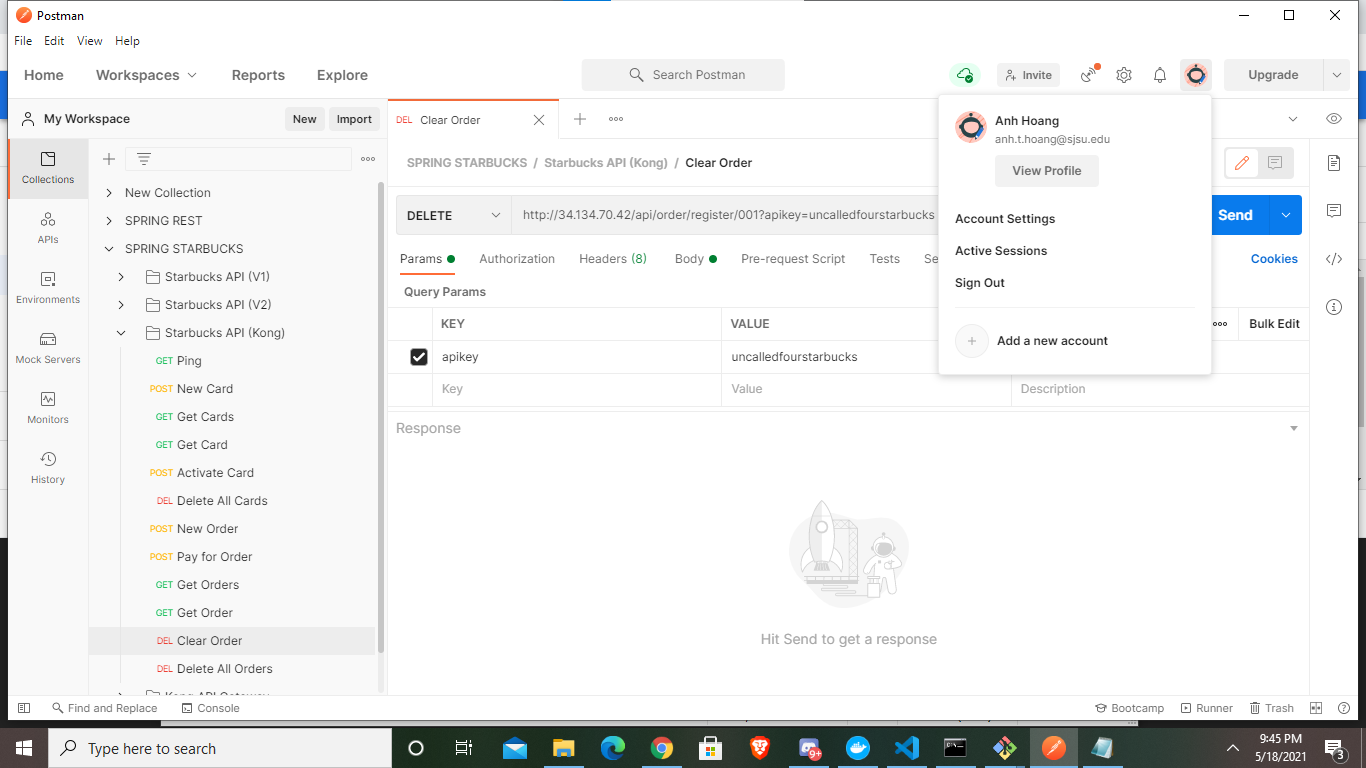
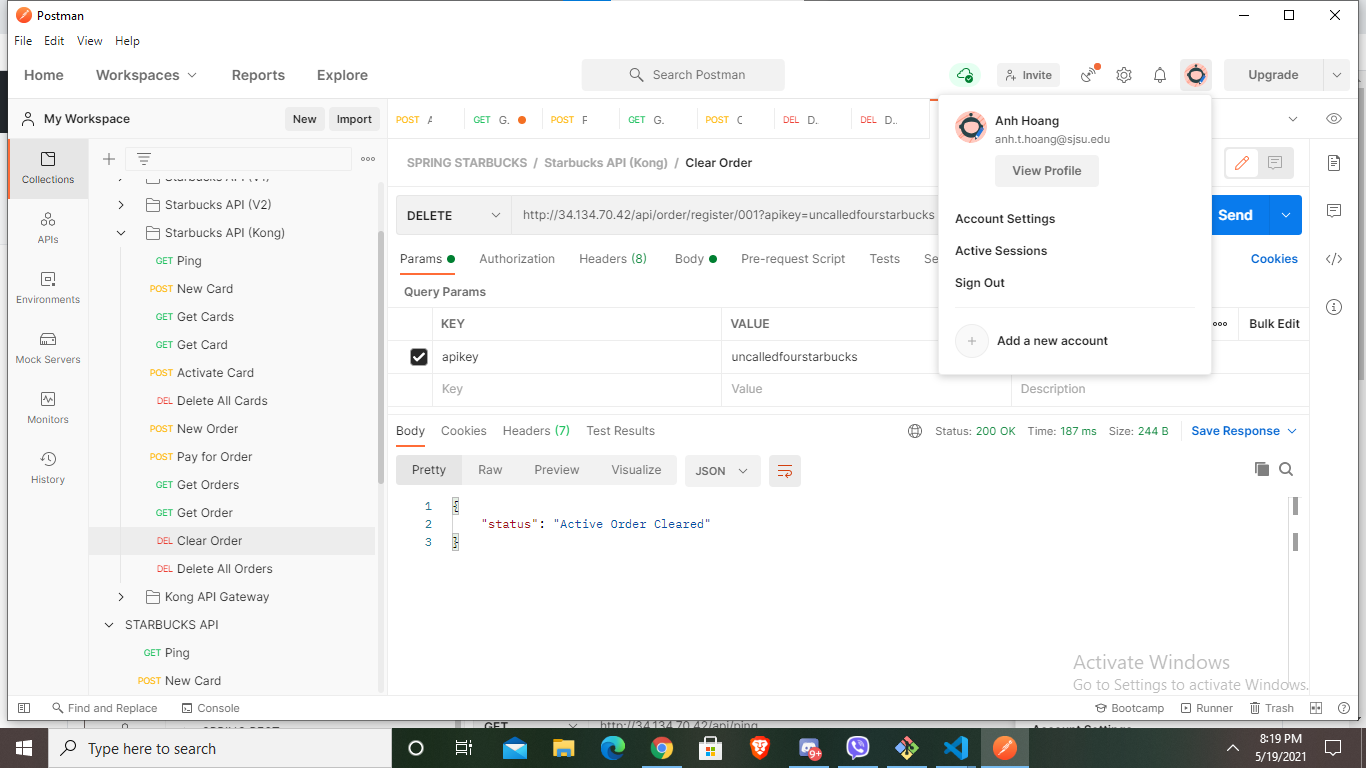
Update journal- Kong API

diff --git a/journal/project_journal.md b/journal/project_journal.md
@@ -136,7 +136,32 @@ For now, we decided to use static HTML values for the menu. Currently, we are wo
 ![alt text](https://github.com/nguyensjsu/sp21-172-the-uncalled-four/blob/main/screenshots/starbucks2.png?raw=true)<br />
 
 ***REST API***
- * Final design with sample request/response
+ * We have successfully deploy KONG API GATEWAY for starbucks-api. Below are some sample of request/response <br />
+
+    ***Ping***
+    ![alt text](https://github.com/nguyensjsu/sp21-172-the-uncalled-four/blob/main/kongscreenshots/ping.png?raw=true)<br />
+    ***New Card***
+    ![alt text](https://github.com/nguyensjsu/sp21-172-the-uncalled-four/blob/main/kongscreenshots/newcard.png?raw=true)<br />
+    ***Get Cards***
+    ![alt text](https://github.com/nguyensjsu/sp21-172-the-uncalled-four/blob/main/kongscreenshots/getcards.png?raw=true)<br />
+    ***Get Card***
+    ![alt text](https://github.com/nguyensjsu/sp21-172-the-uncalled-four/blob/main/kongscreenshots/getcard.png?raw=true)<br />
+    ***Activate Card***
+    ![alt text](https://github.com/nguyensjsu/sp21-172-the-uncalled-four/blob/main/kongscreenshots/activatecard.png?raw=true)<br />
+    ***New Order***
+    ![alt text](https://github.com/nguyensjsu/sp21-172-the-uncalled-four/blob/main/kongscreenshots/neworder.png?raw=true)<br />
+    ***Get Orders***
+    ![alt text](https://github.com/nguyensjsu/sp21-172-the-uncalled-four/blob/main/kongscreenshots/getorders.png?raw=true)<br />
+    ***Get Order***
+    ![alt text](https://github.com/nguyensjsu/sp21-172-the-uncalled-four/blob/main/kongscreenshots/getorder.png?raw=true)<br />
+    ***Pay Order***
+    ![alt text](https://github.com/nguyensjsu/sp21-172-the-uncalled-four/blob/main/kongscreenshots/payorder.png?raw=true)<br />
+    ***Clear Order***
+    ![alt text](https://github.com/nguyensjsu/sp21-172-the-uncalled-four/blob/main/kongscreenshots/clearorder.png?raw=true)<br />
+    ***Delete Orders***
+    ![alt text](https://github.com/nguyensjsu/sp21-172-the-uncalled-four/blob/main/kongscreenshots/deleteorders.png?raw=true)<br />
+    ***Delete Cards***
+    ![alt text](https://github.com/nguyensjsu/sp21-172-the-uncalled-four/blob/main/kongscreenshots/deletecards.png?raw=true)<br />
 
 ***Integrations***
  * There are two integrations in our Starbucks application. 
@@ -170,7 +195,9 @@ If we know more about how to set up the remote access of MySQL using docker imag
 
 
 **Challenges We Faced on Reward Card Cashier.** 
- * We tried to create valid coupon card or starbucks reward card that generates a code for the customer to use. 
+ * We tried to create valid coupon card or starbucks reward card that generates a code for the customer to use. However, we did not have enough time to finish it. This is what we have for the current view of reward cards. 
+
+  ![alt text](https://github.com/nguyensjsu/sp21-172-the-uncalled-four/blob/main/screenshots/reward-current.png?raw=true)<br />
 
 
 
